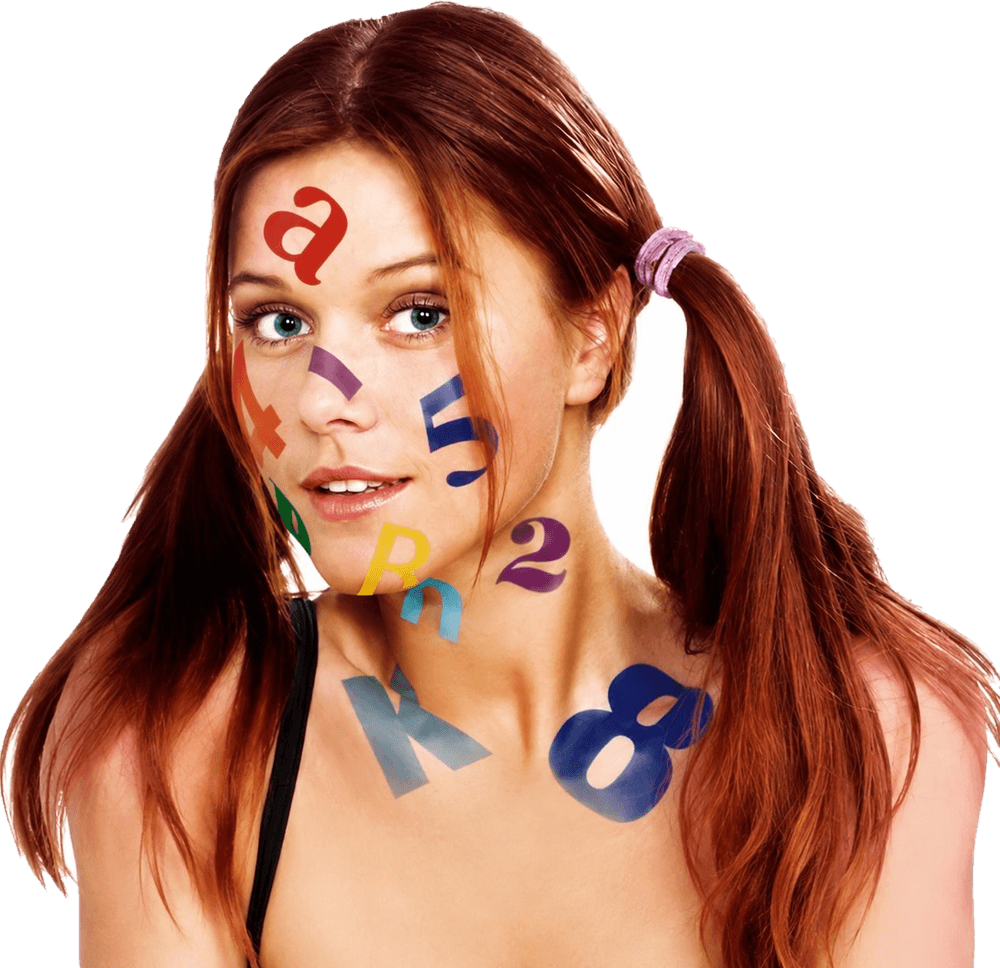
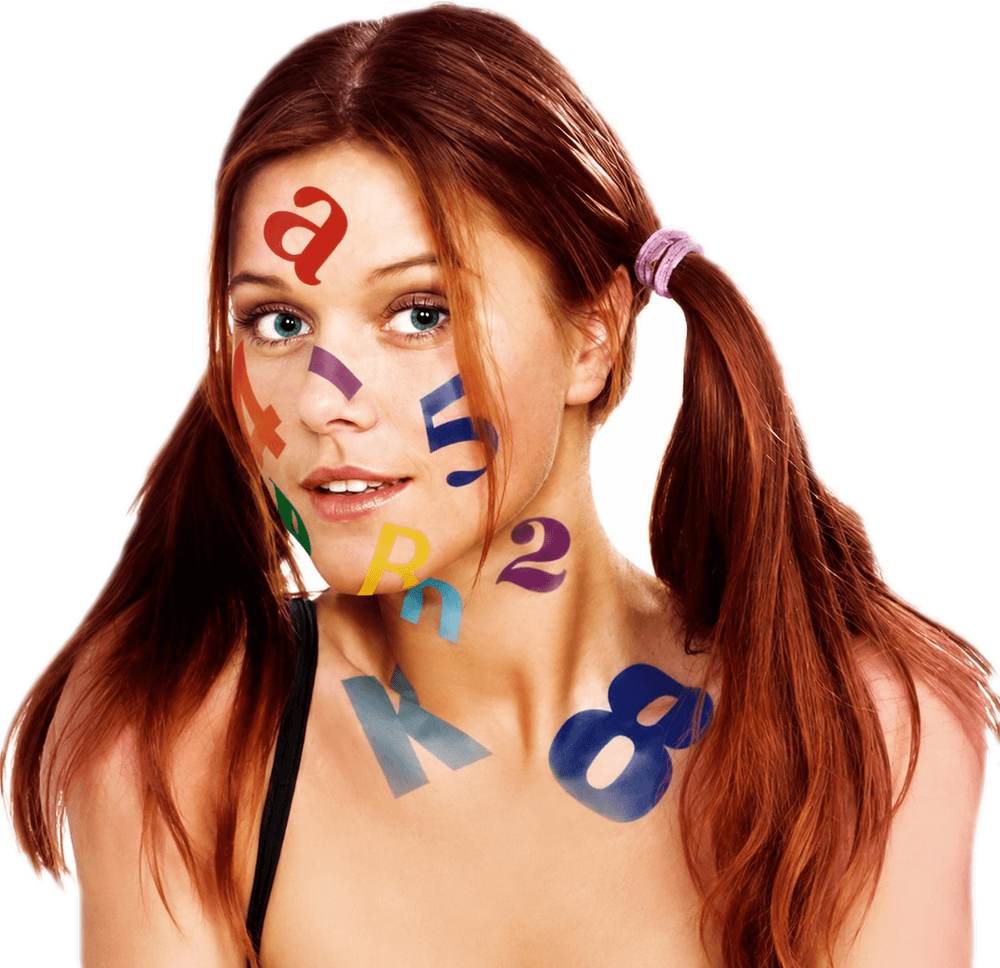
Hero cutout: zjemnění tvrdé hrany siluety (odstranění „seku")
- alfa-hrana cutoutu paní zjemněna (erode 1px + gaussian blur 2.2)
  → mizí ostrá čára a světlý lem proti karamelovému pozadí; tvář i
  písmena na tváři zůstávají ostré
- přeuloženo hero-cutout.png i .webp; cache-busting ?v=2 (preload,
  <source>, <img>)
- písmena v pozadí (JS scatter) beze změny

diff --git a/index.html b/index.html
@@ -40,7 +40,7 @@
   <!-- ============ Performance: preconnect + font preload ============ -->
   <link rel="preload" href="assets/fonts/outfit-800.woff2" as="font" type="font/woff2" crossorigin>
   <link rel="preload" href="assets/fonts/inter-400.woff2" as="font" type="font/woff2" crossorigin>
-  <link rel="preload" href="assets/hero/hero-cutout.webp" as="image" fetchpriority="high">
+  <link rel="preload" href="assets/hero/hero-cutout.webp?v=2" as="image" fetchpriority="high">
 
   <link rel="stylesheet" href="css/styles.css?v=20">
 
@@ -162,8 +162,8 @@
     <div class="hero__visual" data-parallax-scene>
       <div class="hero__blob" aria-hidden="true"></div>
       <picture>
-        <source type="image/webp" srcset="assets/hero/hero-cutout.webp">
-        <img src="assets/hero/hero-cutout.png" class="hero__img" alt="Maskotka Reklama Klapka — žena s barevnými písmeny a čísly na tváři" width="1000" height="968" fetchpriority="high" decoding="async">
+        <source type="image/webp" srcset="assets/hero/hero-cutout.webp?v=2">
+        <img src="assets/hero/hero-cutout.png?v=2" class="hero__img" alt="Maskotka Reklama Klapka — žena s barevnými písmeny a čísly na tváři" width="1000" height="968" fetchpriority="high" decoding="async">
       </picture>
     </div>
   </div>
